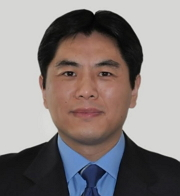
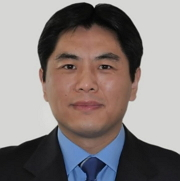
update image
update imgae

diff --git a/our-agents.html b/our-agents.html
@@ -214,7 +214,7 @@
 			</li>
 			<li><!-- 18 -->
 				<div class="agent-profile">
-					<img src="images\agents\Trent-Zhu.jpg">
+					<img src="images\agents\trent-zhu.jpg">
 					<h3>Trent Zhu<br />
 					MD, VA Realtor</h3>
 					<p>202-656-7766<br>
